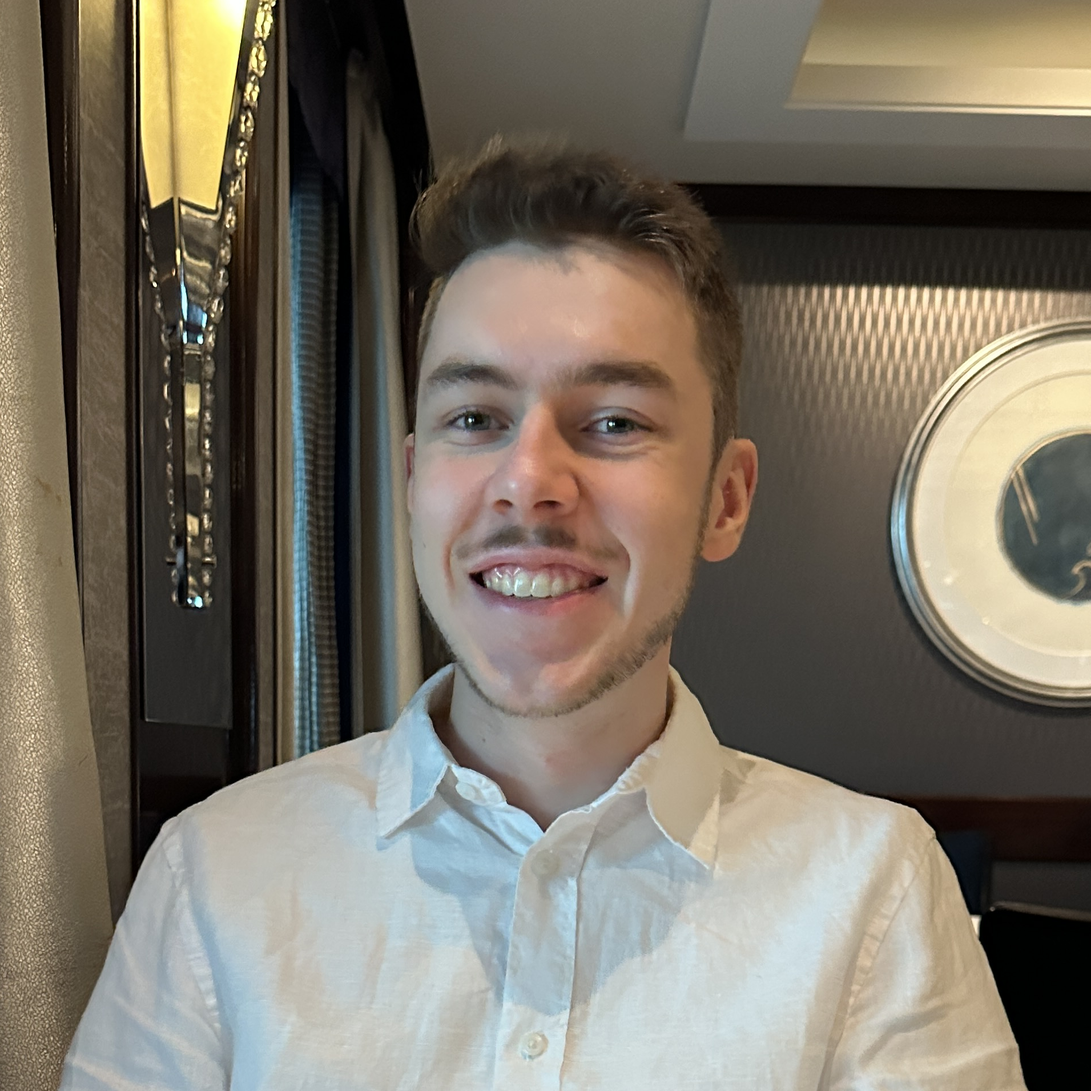
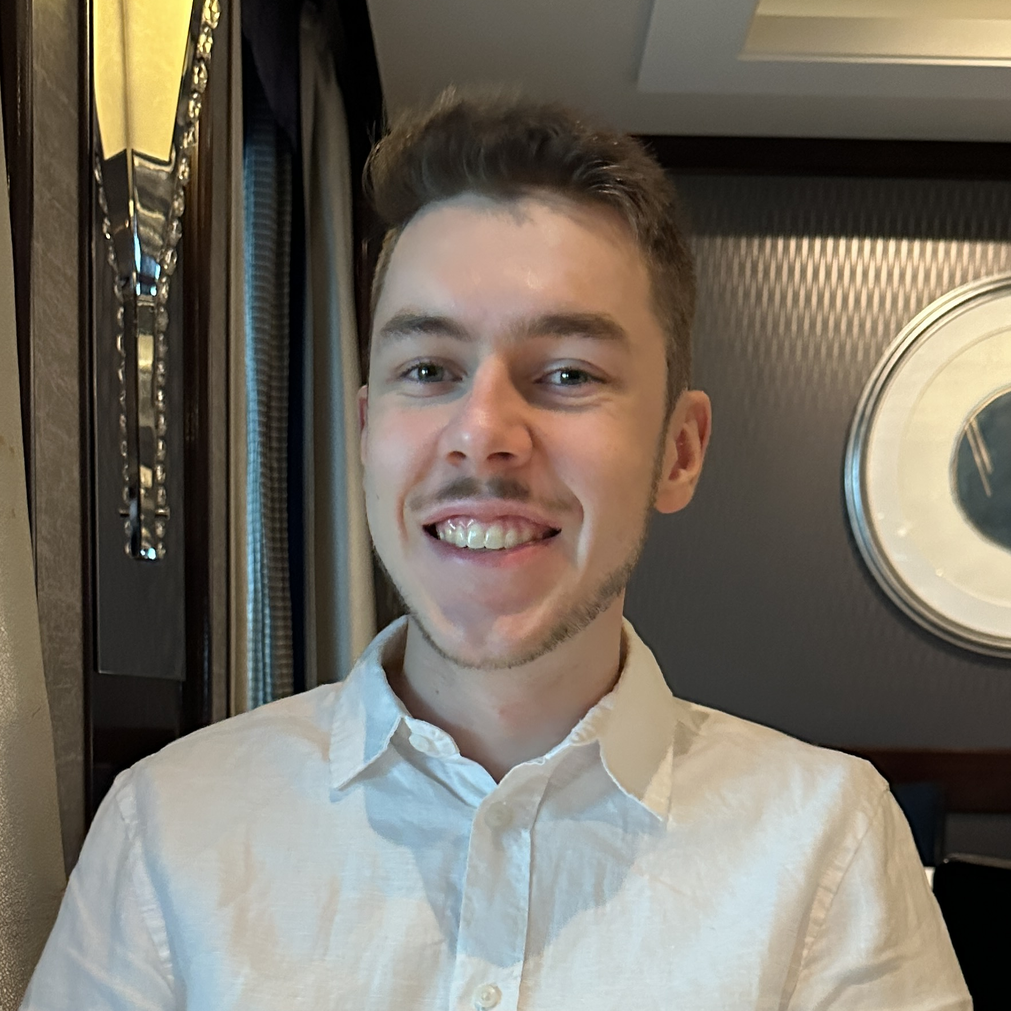
small changes

diff --git a/index.html b/index.html
@@ -3,7 +3,7 @@
 <head>
     <meta charset="UTF-8">
     <meta name="viewport" content="width=device-width, initial-scale=1.0">
-    <title>Guillaume Payeur - Researcher in Physics/ML</title>
+    <title>Guillaume Payeur - PhD student in Physics/ML</title>
     <!-- Use icon.jpg as favicon -->
     <link rel="icon" type="image/jpeg" href="pictures/icon.jpg">
     <!-- Link to the CSS file -->
@@ -30,18 +30,20 @@
                 <img src="pictures/profile_picture.png" alt="Guillaume Payeur" class="profile-pic">
                 <div class="intro-text">
                     <h1>Guillaume Payeur</h1>
-                    <!-- Replace this text with your actual summary -->
                     <p>
                         Hi! Welcome to my website! 
                     </p>
                     <p>
-                        I'm a PhD student in physics at the Université de Montréal
+                        I'm a PhD student in physics at the Université de Montréal,
                         under the supervision of Laurence Perreault-Levasseur. 
                         I'm also affiliated with <a href="https://mila.quebec/en" target="_blank">Mila</a>, <a href="https://ciela.science/" target="_blank">Ciela</a> and the <a href="https://tsi.mcgill.ca/" target="_blank">Trottier Space Institute</a>.
                     </p>
+                    <p> 
+                        Previously, I've received my Master's degree from McGill University, where I worked under the supervision of Robert Brandenberger and Evan McDonough.
+                    </p>
                     <p>
                         Recently, I've been developing machine learning algorithms aimed at inference problems in cosmology and 
-                        astrophysics. Previously, I've published work at intersection of cosmology and high-energy 
+                        astrophysics. Before that, I've worked on problems at the intersection of cosmology and high-energy 
                         theoretical physics.
                     </p>
                     <p>
@@ -53,7 +55,7 @@
                         <a href="https://orcid.org/0000-0002-0997-4827" target="_blank" title="ORCID"><i class="fab fa-orcid"></i></a>
                         <a href="https://inspirehep.net/authors/2513563?ui-citation-summary=true" target="_blank" title="INSPIRE-HEP"><i class="ai ai-inspire"></i></a>
                         <a href="https://scholar.google.ca/citations?hl=en&user=j4ag6eoAAAAJ&scilu=&scisig=AFPfF8cAAAAAagYFjLFRBkWgbAZBAArptqTjc-I&gmla=AIqSsVv5yBHpGifaUmfHqZEhS70I1TC4gwNRNC2y4GIEPG3yQszrkgEbgE9AVDX15KZUnabk9T8n_vXP6rJtkWEmSNIUezTBhlPy8b0&sciund=5315573219411154246" target="_blank" title="Google Scholar"><i class="ai ai-google-scholar"></i></a>
-                        <a href="mailto:your.email@example.com" title="Email"><i class="fas fa-envelope"></i></a>
+                        <a href="mailto:guillaume.payeur@umontreal.ca" title="Email"><i class="fas fa-envelope"></i></a>
                     </div>
                 </div>
             </div>
@@ -98,7 +100,7 @@
                 <img src="pictures/correlated_read_noise_reduction_in_infrared_arrays_using_deep_learning.png" alt="Publication 1" class="pub-img">
                 <div class="pub-content">
                     <h3>Correlated Read Noise Reduction in Infrared Arrays Using Deep Learning</h3>
-                    <p>Instrumental noise reduction in astronomical instruments with machine learning.</p>
+                    <p>Instrumental noise reduction in telescope detectors with machine learning.</p>
                     <a href="https://iopscience.iop.org/article/10.3847/1538-3881/ac69d2/pdf" target="_blank" class="pub-link">Read Full Publication</a>
                 </div>
             </div>

diff --git a/personal.html b/personal.html
@@ -78,11 +78,11 @@
                     </div>
                     <div class="hobby-img-container">
                         <img src="pictures/trackmania_summer_tech_cup.png" alt="Trackmania Summer Tech Cup">
-                        <div class="hobby-caption">The time I battled with the worlds' best drivers at the Summer Tech Cup.</div>
+                        <div class="hobby-caption">The time I battled with the world's best drivers at the Summer Tech Cup.</div>
                     </div>
                     <div class="hobby-img-container">
                         <img src="pictures/trackmania_team_of_the_year.jpg" alt="Trackmania Team of the Year">
-                        <div class="hobby-caption">The time my team was nominated for Team of the Year.</div>
+                        <div class="hobby-caption">The time my team was nominated for the Team of the Year award.</div>
                     </div>
                 </div>
             </div>
